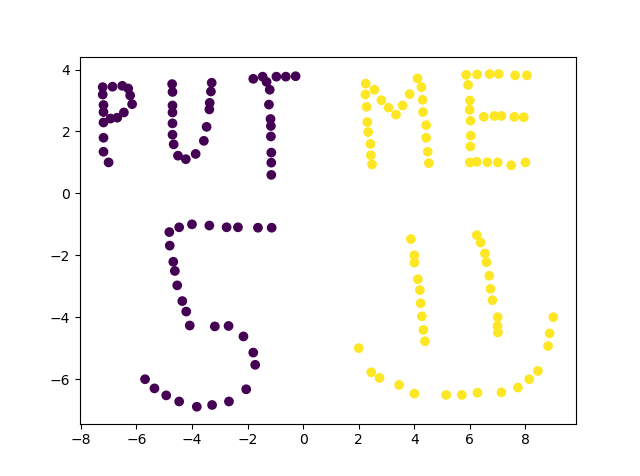
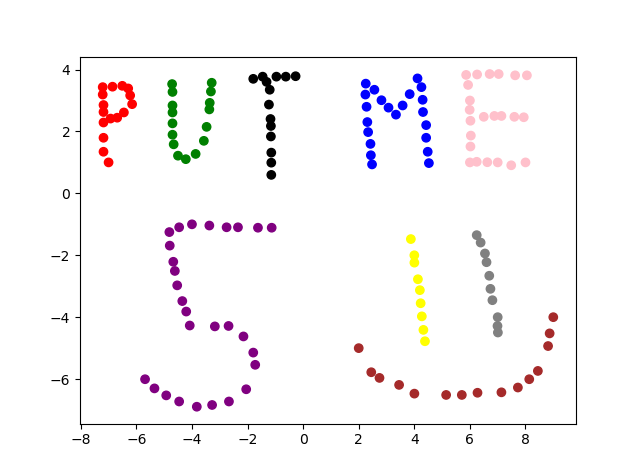
qq

diff --git a/dataKruskal.py b/dataKruskal.py
@@ -161,12 +161,77 @@ class NiceData:
         [3.87557731761138   ,-1.47677542993741  ],
         [5.14504500066172   ,-6.51233057270376  ]])
         return X
-
+        
+class SimpleData:
+   def GetData(self):
+        X = np.array([
+        [-5.49159288385884, 3.60777181278738],
+        [3.16297119612360, -2.07824724999972],
+        [0.0467373721026226, 2.66256344910329],
+        [-5.66881945204961, 3.32716307981866],
+        [3.42881104840975, -2.06347836931715],
+        [-0.160026957453272, 2.35241695476945],
+        [-5.75743273614499, 2.88409665934175],
+        [3.87187746888667, -2.13732277272997],
+        [-0.292946883596346, 2.08657710248330],
+        [-5.90512154297063, 2.45579911954739],
+        [4.04910403707743, -2.60992695457202],
+        [-0.440635690421986, 1.77643060814946],
+        [-6.00000000000000, 2.00000000000000],
+        [4.00000000000000, -3.00000000000000],
+        [-0.544017855199932, 1.48105299449818],
+        [-5.27005967362038, 3.65207845483507],
+        [3.76849530410872, -3.17114442050944],
+        [0.00000000000000, 1.21521314221203],
+        [-5.06329534406449, 3.13516763094533],
+        [3.50265545182257, -3.36313986938277],
+        [0.253501701658517, 1.25951978425972],
+        [-4.95991317928654, 2.69210121046842],
+        [3.25158448021898, -3.48129091484328],
+        [0.622723718722615, 1.30382642630741],
+        [-4.84176213382602, 2.08657710248330],
+        [3.79803306547385, -3.52559755689098],
+        [1.11009678124722, 1.30382642630741],
+        [-4.72361108836552, 1.43674635245049],
+        [4.16725508253794, -3.71759300576431],
+        [1.78946529264516, 1.33336418767254],
+        [-4.72361108836552, 0.875528886513060],
+        [4.28540612799845, -3.93912621600276],
+        [-6.06757923047883, 1.70258620473664],
+        [4.41832605414154, -4.27881047170174],
+        [-6.27434356003473, 1.18567538084690],
+        [4.34448165072871, -4.63326360808328],
+        [-6.39249460549524, 0.757377841052549],
+        [4.09341067912512, -4.75141465354378],
+        [-5.75743273614499, 2.10134598316586],
+        [3.66511313933077, -4.81049017627404],
+        [-5.44728624181115, 2.13088374453099],
+        [3.00000000000000, -4.00000000000000],
+        [-5.07806422474704, 2.14565262521355],
+        [-0.484942332469678, 3.82930502302583],
+        [2.83805582110720, -2.06347836931715],
+        [0.00000000000000, 4.00000000000000],
+        [2.83805582110720, -2.41793150569868],
+        [0.534110434627230, 3.96222494916891],
+        [2.85282470178976, -3.14160665914431],
+        [1.00000000000000, 4.00000000000000],
+        [2.85282470178976, -3.64374860235149],
+        [1.50885655967645, 3.85884278439096],
+        [2.86759358247232, -4.33788599443199],
+        [1.30209223012055, 3.63730957415250],
+        [2.94143798588514, -4.76618353422635],
+        [0.932870213056456, 3.41577636391405],
+        [2.74944253701181, -2.77238464208022],
+        [0.578417076674923, 3.13516763094533],])
+        return X
 
 class DataBuilder:
     def Build(self, name):
         if name == "nice":
             x = NiceData(). GetData()
+            return x
+        elif name == "simple":
+            x = SimpleData(). GetData()
             return x
         else:
             assert("Unknown data")

diff --git a/kruskal.py b/kruskal.py
@@ -3,69 +3,6 @@ import numpy as np
 import matplotlib.pyplot as plt
 import dataKruskal
 
-def GetData():
-    X = np.array([
-    [-5.49159288385884, 3.60777181278738],
-    [3.16297119612360, -2.07824724999972],
-    [0.0467373721026226, 2.66256344910329],
-    [-5.66881945204961, 3.32716307981866],
-    [3.42881104840975, -2.06347836931715],
-    [-0.160026957453272, 2.35241695476945],
-    [-5.75743273614499, 2.88409665934175],
-    [3.87187746888667, -2.13732277272997],
-    [-0.292946883596346, 2.08657710248330],
-    [-5.90512154297063, 2.45579911954739],
-    [4.04910403707743, -2.60992695457202],
-    [-0.440635690421986, 1.77643060814946],
-    [-6.00000000000000, 2.00000000000000],
-    [4.00000000000000, -3.00000000000000],
-    [-0.544017855199932, 1.48105299449818],
-    [-5.27005967362038, 3.65207845483507],
-    [3.76849530410872, -3.17114442050944],
-    [0.00000000000000, 1.21521314221203],
-    [-5.06329534406449, 3.13516763094533],
-    [3.50265545182257, -3.36313986938277],
-    [0.253501701658517, 1.25951978425972],
-    [-4.95991317928654, 2.69210121046842],
-    [3.25158448021898, -3.48129091484328],
-    [0.622723718722615, 1.30382642630741],
-    [-4.84176213382602, 2.08657710248330],
-    [3.79803306547385, -3.52559755689098],
-    [1.11009678124722, 1.30382642630741],
-    [-4.72361108836552, 1.43674635245049],
-    [4.16725508253794, -3.71759300576431],
-    [1.78946529264516, 1.33336418767254],
-    [-4.72361108836552, 0.875528886513060],
-    [4.28540612799845, -3.93912621600276],
-    [-6.06757923047883, 1.70258620473664],
-    [4.41832605414154, -4.27881047170174],
-    [-6.27434356003473, 1.18567538084690],
-    [4.34448165072871, -4.63326360808328],
-    [-6.39249460549524, 0.757377841052549],
-    [4.09341067912512, -4.75141465354378],
-    [-5.75743273614499, 2.10134598316586],
-    [3.66511313933077, -4.81049017627404],
-    [-5.44728624181115, 2.13088374453099],
-    [3.00000000000000, -4.00000000000000],
-    [-5.07806422474704, 2.14565262521355],
-    [-0.484942332469678, 3.82930502302583],
-    [2.83805582110720, -2.06347836931715],
-    [0.00000000000000, 4.00000000000000],
-    [2.83805582110720, -2.41793150569868],
-    [0.534110434627230, 3.96222494916891],
-    [2.85282470178976, -3.14160665914431],
-    [1.00000000000000, 4.00000000000000],
-    [2.85282470178976, -3.64374860235149],
-    [1.50885655967645, 3.85884278439096],
-    [2.86759358247232, -4.33788599443199],
-    [1.30209223012055, 3.63730957415250],
-    [2.94143798588514, -4.76618353422635],
-    [0.932870213056456, 3.41577636391405],
-    [2.74944253701181, -2.77238464208022],
-    [0.578417076674923, 3.13516763094533],
-    ])
-    return X
-
 def Euclidean(x,y):
     return np.sqrt(np.sum((x-y)**2))
 
@@ -133,8 +70,13 @@ def Kruskal(X, needclasses, plotGraph=False, ro=Euclidean):
     return y
 
 X = dataKruskal.DataBuilder().Build("nice")
-y = Kruskal(X,2,True)
-#y = Kruskal(X,3,True)
-print(y)
-plt.scatter(X[:,0],X[:,1], c=y)
+y = Kruskal(X,9,True)
+
+colors=['red','green','blue','pink','purple','yellow','brown','black','gray'] 
+ncolor=[] 
+for i in range(len(y)): 
+    pos = int(y[i]) 
+    ncolor.append(colors[pos])
+    
+plt.scatter(X[:,0],X[:,1], c=ncolor)
 plt.show()

diff --git a/README.md b/README.md
@@ -6,7 +6,6 @@
 
 ###### Пример работы программы:
 
-Выберем, к примеру, 1 кластер (Краскал даст просто Мин Ост дерево)
 <figure>
   <img src="https://raw.githubusercontent.com/okiochan/Kruskal/master/nice.png" alt="uniform"/>
 </figure>
